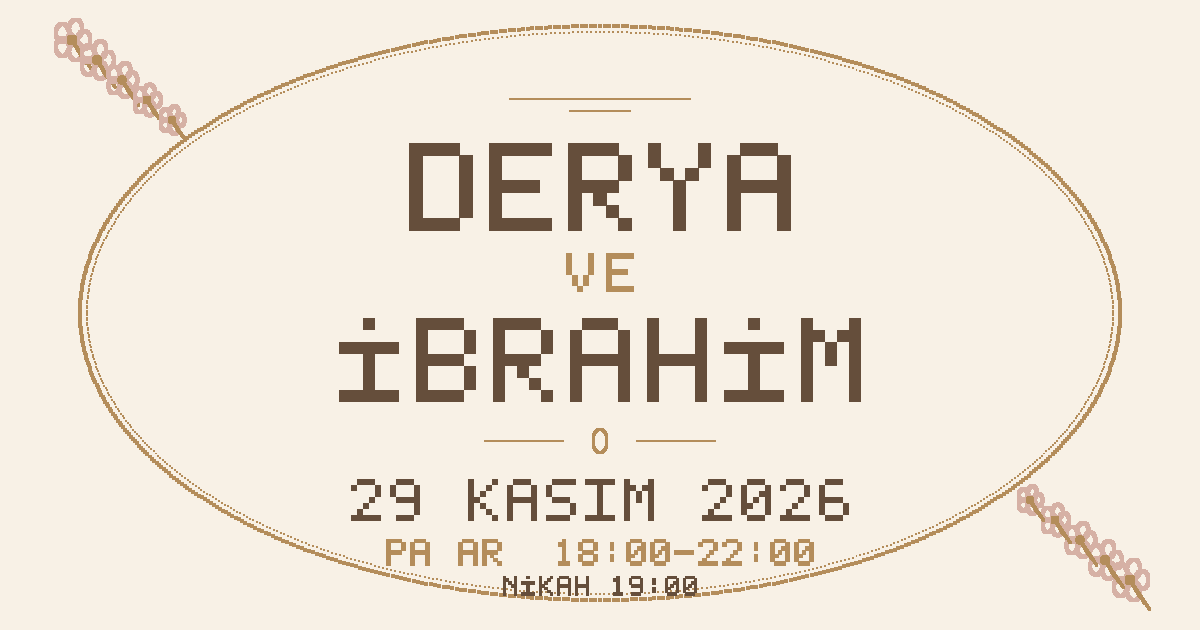
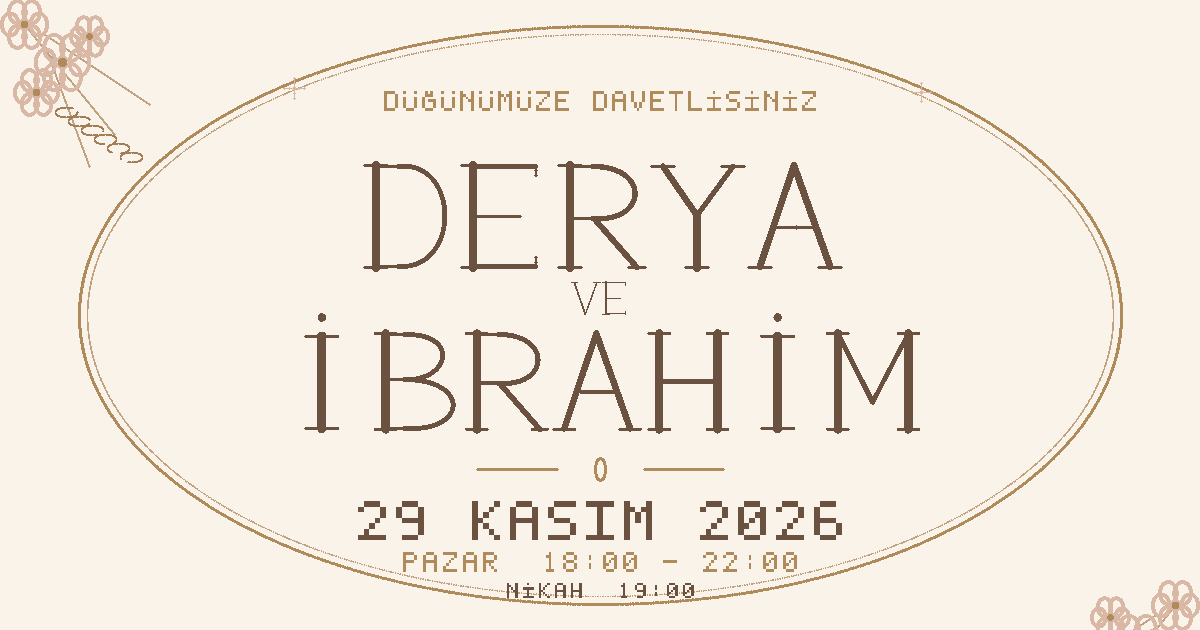
Refine Derya Ibrahim wedding preview image and WhatsApp cache version

diff --git a/deryaibrahimdavetiye/index.html b/deryaibrahimdavetiye/index.html
@@ -15,11 +15,11 @@
   <meta property="og:site_name" content="Derya &amp; İbrahim">
   <meta property="og:title" content="Derya &amp; İbrahim | 29 Kasım 2026 · Davetlisiniz">
   <meta property="og:description" content="Mutluluk gele dursun, dostlara haber olsun. Düğünümüz var bugün, bizi sevenler buyursun. 29 Kasım 2026 · Nikâh 19:00 · Asrena Taşev.">
-  <meta property="og:url" content="https://deryaibrahimdavetiye.vercel.app/?v=1">
-  <meta name="image" content="https://deryaibrahimdavetiye.vercel.app/davetiye-paylasim-2026.png?v=1">
-  <meta itemprop="image" content="https://deryaibrahimdavetiye.vercel.app/davetiye-paylasim-2026.png?v=1">
-  <meta property="og:image" content="https://deryaibrahimdavetiye.vercel.app/davetiye-paylasim-2026.png?v=1">
-  <meta property="og:image:secure_url" content="https://deryaibrahimdavetiye.vercel.app/davetiye-paylasim-2026.png?v=1">
+  <meta property="og:url" content="https://deryaibrahimdavetiye.vercel.app/?v=2">
+  <meta name="image" content="https://deryaibrahimdavetiye.vercel.app/davetiye-paylasim-2026.png?v=2">
+  <meta itemprop="image" content="https://deryaibrahimdavetiye.vercel.app/davetiye-paylasim-2026.png?v=2">
+  <meta property="og:image" content="https://deryaibrahimdavetiye.vercel.app/davetiye-paylasim-2026.png?v=2">
+  <meta property="og:image:secure_url" content="https://deryaibrahimdavetiye.vercel.app/davetiye-paylasim-2026.png?v=2">
   <meta property="og:image:width" content="1200">
   <meta property="og:image:height" content="630">
   <meta property="og:image:type" content="image/png">
@@ -28,7 +28,7 @@
   <meta name="twitter:card" content="summary_large_image">
   <meta name="twitter:title" content="Derya &amp; İbrahim | 29 Kasım 2026 · Davetlisiniz">
   <meta name="twitter:description" content="Mutluluk gele dursun, dostlara haber olsun. Düğünümüz var bugün, bizi sevenler buyursun. 29 Kasım 2026 · Nikâh 19:00 · Asrena Taşev.">
-  <meta name="twitter:image" content="https://deryaibrahimdavetiye.vercel.app/davetiye-paylasim-2026.png?v=1">
+  <meta name="twitter:image" content="https://deryaibrahimdavetiye.vercel.app/davetiye-paylasim-2026.png?v=2">
   <link rel="icon" type="image/svg+xml" href="./monogram.svg">
   <link rel="preload" href="./sealed-doors.webp" as="image" fetchpriority="high">
   <link rel="preload" href="./pearl-frame-v2.webp" as="image">

diff --git a/deryaibrahimdavetiye/invitation-config.js b/deryaibrahimdavetiye/invitation-config.js
@@ -10,7 +10,7 @@ window.INVITATION = {
   "timeZone": "Europe/Istanbul",
   "utcOffset": "+03:00",
   "publicUrl": "https://deryaibrahimdavetiye.vercel.app",
-  "shareUrl": "https://deryaibrahimdavetiye.vercel.app/?v=1",
+  "shareUrl": "https://deryaibrahimdavetiye.vercel.app/?v=2",
   "venue": {
     "name": "Asrena Taşev",
     "address": "Selçuk Bey, 745. Sk. No:1, 20100 Denizli",
